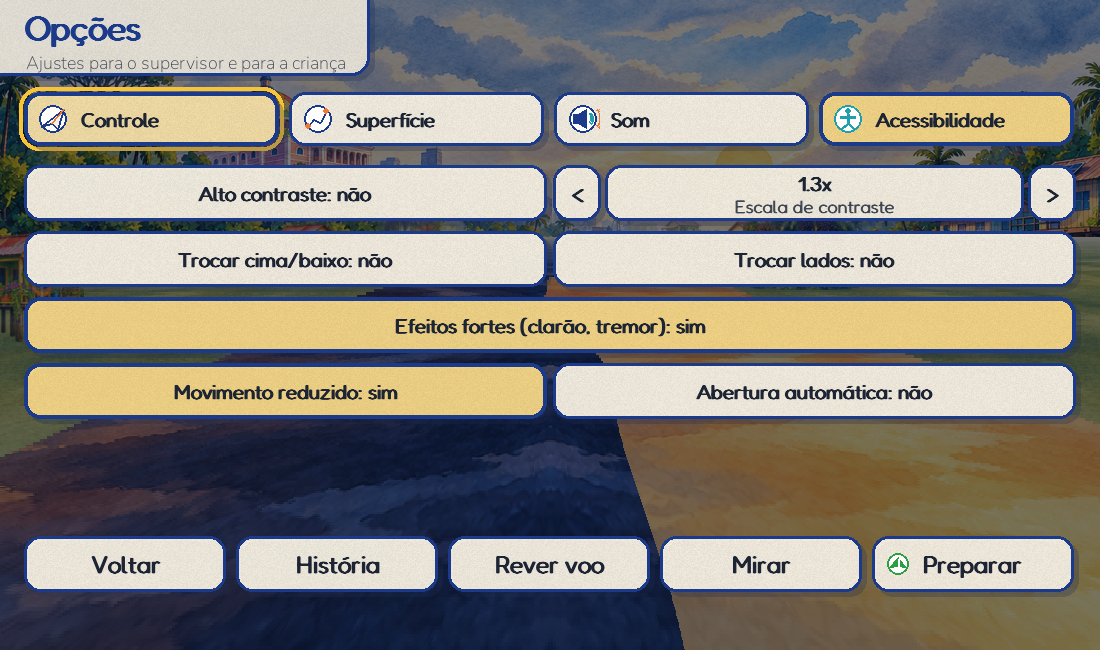
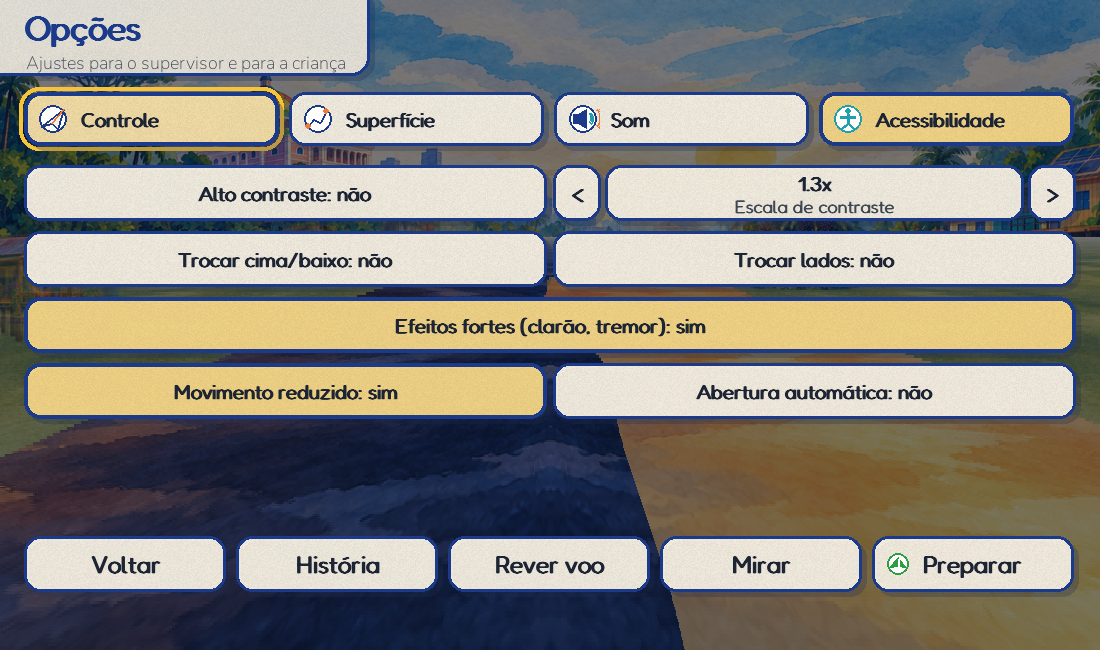
docs: review menu references after earlier scenery transition

diff --git a/docs/GUIA_DO_JOGO.md b/docs/GUIA_DO_JOGO.md
@@ -41,7 +41,7 @@ A versão atual tem duas fases, cada uma numa cidade brasileira do seu bioma:
 
 - Manaus e Petrolina estão abertas desde o primeiro voo; a criança escolhe a ordem das visitas.
 - Cerrado, Mata Atlântica, Pantanal e Pampa aparecem no mapa como "Em breve".
-- A paisagem de cada fase tem três estágios: cidade industrial (dieselpunk), despertar ecológico e cidade solarpunk. Eles se sucedem aos 33,3% e aos 66,7% de transformação.
+- A paisagem de cada fase tem três estágios: cidade industrial (dieselpunk), despertar ecológico e cidade solarpunk. Os marcos de estrelas/estágio ficam em 33,3% e 66,7%; a mistura visual da aquarela começa após os 5% iniciais e antecipa gradualmente essas mudanças.
 - No estágio industrial, peças regionais (guindaste, termelétrica e contêineres em Manaus; torres de transmissão, caixas d'água e galpões em Petrolina) se misturam às estruturas do kit, e silhuetas da cidade regional aparecem no horizonte.
 - O céu das fases poluídas é tingido pelo bioma: cinza e úmido em Manaus, ocre e seco em Petrolina.
 - Na direção aquarelada, água/solo avançam em perspectiva e as peças regionais se aproximam pelas margens. O cenário procedural de reserva usa quarteirões com vãos entre eles.

diff --git a/docs/visual-reference/v170/README.md b/docs/visual-reference/v170/README.md
@@ -2,6 +2,8 @@
 
 Quatro páginas de Opções, revisadas em 25/10/2026. Captura em 1100 × 650, pygame 2.6.1, fontes embutidas, `SDL_VIDEODRIVER=dummy` e perfil sintético, com `tools/capture_release.py --reference`. Redução de movimento elimina variação de câmera decorativa.
 
+Referências revistas após a antecipação da mistura da paisagem: o céu decorativo dos menus muda de forma intencional. As quatro capturas foram inspecionadas; textos, botões e sua geometria permanecem iguais. Os limites da comparação não foram relaxados.
+
 `tools/visual_regression.py` exige dimensões iguais, erro médio absoluto por canal até 1 e no máximo 1% dos pixels com diferença acima de 32. Isso detecta perda de botões/layout e tolera pequenas diferenças de rasterização. Atualizar estes PNGs exige inspeção visual; não regenere a referência apenas para silenciar uma falha do CI.
 
 Voos e transições são conferidos separadamente pela galeria temporal, testes geométricos e métricas. Estes quatro menus não validam conforto de controle ou leitura no projetor.
